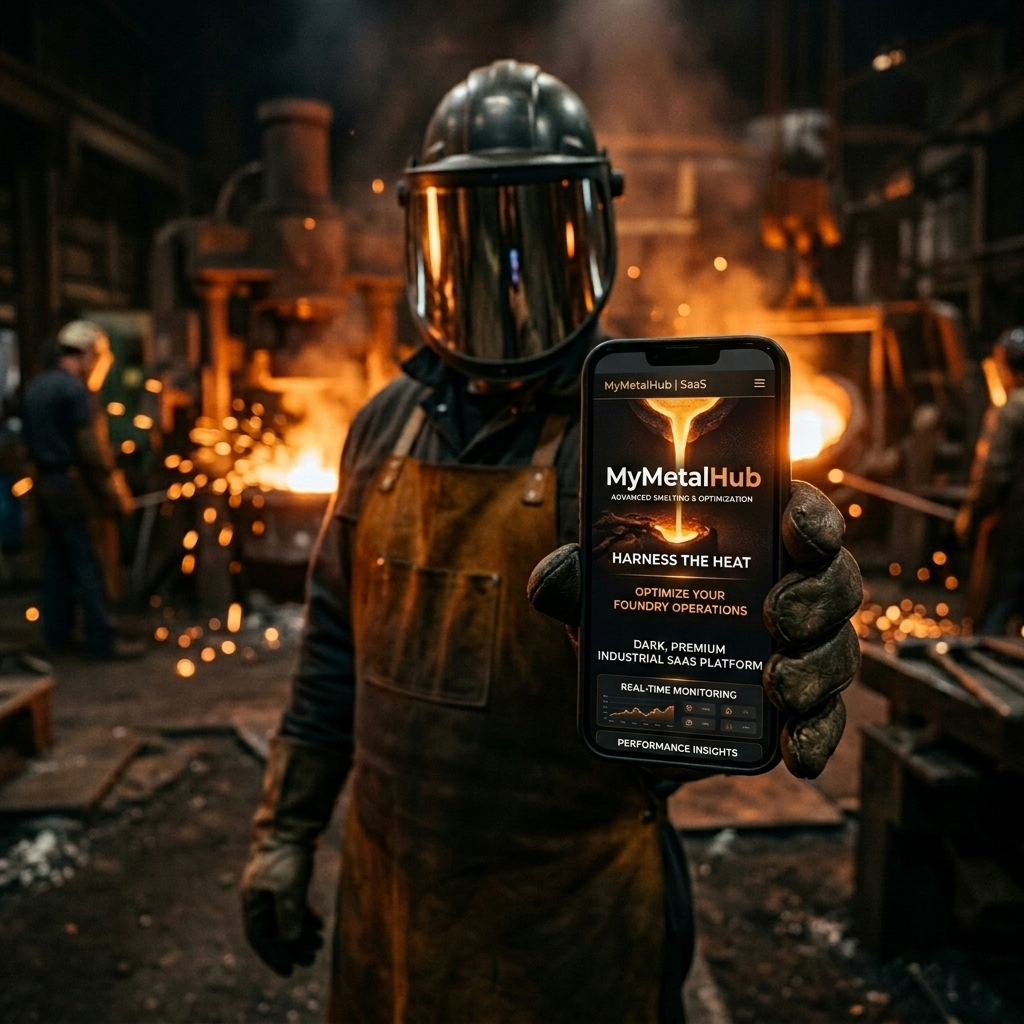
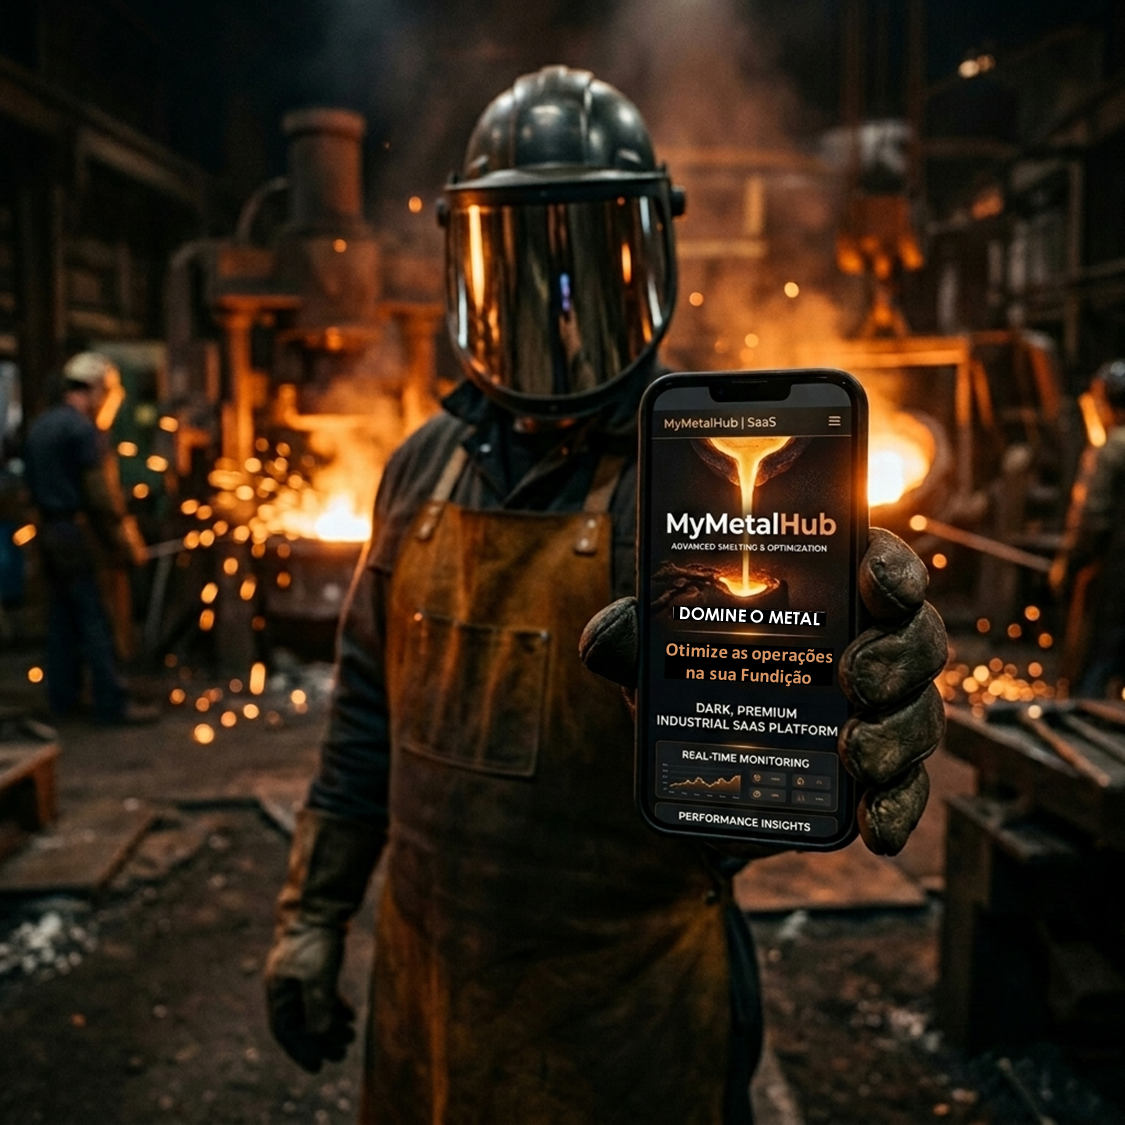
ajuste para cell

Changed region(s): [[0.5938, 0.5312, 0.75, 0.6875], [0.5938, 0.4688, 0.7188, 0.5], [0.625, 0.7188, 0.7188, 0.75]]

diff --git a/index.html b/index.html
@@ -51,20 +51,16 @@
                     <span class="w-1.5 h-1.5 rounded-full bg-orange-500"></span>
                     Home
                 </a>
-                <a class="px-5 py-1.5 text-sm text-neutral-400 hover:text-white transition-colors shrink-0" href="https://ifrs.edu.br/caxias/" target="_blank">Formações</a>
                 <a class="px-5 py-1.5 text-sm text-neutral-400 hover:text-white transition-colors shrink-0" href="sobre-nos.html">Sobre nós</a>
                 <a class="px-5 py-1.5 text-sm text-neutral-400 hover:text-white transition-colors shrink-0" href="#">Hub de discussões</a>
                 <a class="px-5 py-1.5 text-sm text-neutral-400 hover:text-white transition-colors flex items-center gap-1 shrink-0" href="para_empresas.html">
                     Soluções para Empresas
-                    <svg class="w-3 h-3" fill="none" stroke="currentColor" stroke-linecap="round" stroke-linejoin="round" stroke-width="2" viewBox="0 0 24 24" xmlns="http://www.w3.org/2000/svg">
-                        <path d="m6 9 6 6 6-6"></path>
-                    </svg>
                 </a>
             </nav>
 
             <!-- CTA Right -->
             <div class="flex items-center gap-4 gsap-nav-item shrink-0 order-2 md:order-none">
-                <a class="hidden md:inline-flex hover:brightness-110 transition-all text-sm text-white bg-gradient-to-b from-orange-400 to-orange-600 border-white/20 rounded-full border-t px-6 py-2.5 shadow-[0_0_15px_-3px_rgba(249,115,22,0.4)]"
+                <a class="inline-flex hover:brightness-110 transition-all text-sm text-white bg-gradient-to-b from-orange-400 to-orange-600 border-white/20 rounded-full border-t px-6 py-2.5 shadow-[0_0_15px_-3px_rgba(249,115,22,0.4)]"
                     href="index.html#planos">
                     Desbloquear o Hub
                 </a>
@@ -78,7 +74,7 @@
             <div class="grid grid-cols-1 lg:grid-cols-12 gap-12 lg:gap-8 items-center">
 
                 <!-- Left Content -->
-                <div class="lg:col-span-6 flex flex-col relative z-20">
+                <div class="lg:col-span-6 flex flex-col relative z-20 order-1">
                     <div
                         class="inline-flex items-center gap-2 px-3 py-1.5 rounded-lg border border-orange-500/20 bg-orange-500/10 backdrop-blur-sm text-xs text-orange-400 mb-8 w-max gsap-reveal hero-stagger">
                         <svg class="w-4 h-4" fill="none" stroke="currentColor" viewBox="0 0 24 24"
@@ -140,7 +136,7 @@
 
                 <!-- Right Content / Video -->
                 <div
-                    class="lg:col-span-6 relative flex justify-center lg:justify-end items-center h-full min-h-[500px]">
+                    class="lg:col-span-6 relative flex justify-center lg:justify-end items-center h-full min-h-[500px] order-2">
                     <!-- Outer glowing ring -->
                     <div
                         class="absolute w-[120%] h-[120%] top-1/2 left-1/2 -translate-x-1/2 -translate-y-1/2 rounded-full border border-orange-500/10 animate-[spin_60s_linear_infinite] z-0">
@@ -275,7 +271,7 @@
             <div class="grid grid-cols-1 lg:grid-cols-12 gap-16 items-center">
                 
                 <!-- Left Column: Visual (Animation/Image) -->
-                <div class="lg:col-span-5 relative flex justify-center lg:justify-start gsap-reveal order-2 lg:order-1">
+                <div class="lg:col-span-5 relative flex justify-center lg:justify-start gsap-reveal order-2">
                     <!-- Electric Card from Design System used for a warning/pain visual -->
                     <div class="relative w-full max-w-[400px] bg-neutral-900 rounded-[32px] p-[2px] electric-card overflow-hidden shadow-[0_0_50px_rgba(239,68,68,0.15)]">
                         <!-- Glowing Border Gradient -->
@@ -354,7 +350,7 @@
                 </div>
 
                 <!-- Right Column: Text & Agitation -->
-                <div class="lg:col-span-7 flex flex-col items-start relative z-10 lg:pl-8 order-1 lg:order-2">
+                <div class="lg:col-span-7 flex flex-col items-start relative z-10 lg:pl-8 order-1">
                     <!-- Tag -->
                     <div class="mb-8 inline-flex items-center gap-2 px-3 py-1.5 rounded-lg border border-red-500/20 bg-red-500/10 backdrop-blur-sm text-xs text-red-400 gsap-reveal">
                         <svg class="w-4 h-4" fill="none" stroke="currentColor" viewBox="0 0 24 24">
@@ -411,7 +407,7 @@
             <div class="grid grid-cols-1 lg:grid-cols-12 gap-12 lg:gap-8 items-center">
                 
                 <!-- Left: Typography -->
-                <div class="lg:col-span-6 flex flex-col items-start relative z-20">
+                <div class="lg:col-span-6 flex flex-col items-start relative z-20 order-1">
                     <div class="inline-flex items-center gap-2 px-3 py-1.5 rounded-lg border border-white/10 bg-white/5 backdrop-blur-sm text-xs text-orange-400 mb-8 gsap-reveal gsap-vr-stagger">
                         <span class="relative flex h-3 w-3">
                             <span class="animate-ping absolute inline-flex h-full w-full rounded-full bg-orange-400 opacity-75"></span>
@@ -453,7 +449,7 @@
                 </div>
 
                 <!-- Right: Circular Mask Image with Tech Rings -->
-                <div class="lg:col-span-6 relative flex justify-center lg:justify-center gsap-vr-image mt-16 lg:mt-0">
+                <div class="lg:col-span-6 relative flex justify-center lg:justify-center gsap-vr-image mt-16 lg:mt-0 order-2">
                     
                     <!-- Floating Container -->
                     <div class="relative animate-[float_6s_ease-in-out_infinite]">
@@ -503,14 +499,14 @@
             <div class="grid grid-cols-1 lg:grid-cols-2 gap-16 items-center">
                 
                 <!-- Right: Typography (now Left on desktop) -->
-                <div class="flex flex-col items-start relative z-10 order-2 lg:order-1">
+                <div class="flex flex-col items-start relative z-10 order-1">
                     <div class="inline-flex items-center gap-2 px-3 py-1.5 rounded-lg border border-white/10 bg-white/5 backdrop-blur-sm text-xs text-red-500 mb-6 shadow-lg shadow-red-500/10 gsap-com-stagger gsap-reveal">
                         <svg class="w-4 h-4" fill="currentColor" viewBox="0 0 24 24"><path d="M16 11c1.66 0 2.99-1.34 2.99-3S17.66 5 16 5c-1.66 0-3 1.34-3 3s1.34 3 3 3zm-8 0c1.66 0 2.99-1.34 2.99-3S9.66 5 8 5C6.34 5 5 6.34 5 8s1.34 3 3 3zm0 2c-2.33 0-7 1.17-7 3.5V19h14v-2.5c0-2.33-4.67-3.5-7-3.5zm8 0c-.29 0-.62.02-.97.05 1.16.84 1.97 1.97 1.97 3.45V19h6v-2.5c0-2.33-4.67-3.5-7-3.5z"/></svg>
                         <span class="font-medium uppercase tracking-wider">A Irmandade da Metalurgia</span>
                     </div>
 
                     <h2 class="text-4xl md:text-5xl lg:text-[60px] leading-[1.1] text-white font-bricolage font-light tracking-tight mb-8 gsap-com-stagger gsap-reveal">
-                        Comunidade
+                        Comunidades
                         <br/>
                         <span class="font-medium text-transparent bg-clip-text bg-gradient-to-r from-red-500 via-orange-500 to-amber-500">MyMetalHub</span>
                     </h2>
@@ -529,16 +525,10 @@
                         <span class="text-sm text-neutral-500 font-medium">Especialistas ativos agora</span>
                     </div>
 
-                    <div class="mt-10 gsap-com-stagger gsap-reveal">
-                        <a href="#" class="inline-flex items-center justify-center gap-3 px-8 py-4 rounded-xl bg-gradient-to-r from-red-600 to-orange-600 hover:from-red-500 hover:to-orange-500 text-white font-medium transition-all shadow-[0_0_30px_rgba(239,68,68,0.3)] hover:shadow-[0_0_40px_rgba(239,68,68,0.5)] transform hover:-translate-y-1">
-                            Acessar a Comunidade
-                            <svg class="w-5 h-5" fill="none" stroke="currentColor" viewBox="0 0 24 24"><path stroke-linecap="round" stroke-linejoin="round" stroke-width="2" d="M17 8l4 4m0 0l-4 4m4-4H3"></path></svg>
-                        </a>
-                    </div>
                 </div>
 
                 <!-- Left: Glassmorphism Community Mockup (now Right on desktop) -->
-                <div class="relative h-[500px] w-full max-w-[500px] mx-auto lg:mx-0 gsap-com-mockup gsap-reveal order-1 lg:order-2">
+                <div class="relative h-[500px] w-full max-w-[500px] mx-auto lg:mx-0 gsap-com-mockup gsap-reveal order-2 lg:order-2">
                     
                     <!-- App Window -->
                     <div class="absolute inset-0 bg-[#0A0A0A]/60 backdrop-blur-2xl border border-white/10 rounded-3xl shadow-[0_20px_50px_rgba(239,68,68,0.15)] flex flex-col overflow-hidden">
@@ -622,7 +612,7 @@
             <div class="relative w-full flex flex-col lg:flex-row items-center justify-start">
                 
                 <!-- Glassmorphism Text Card (Overlaps right) -->
-                <div class="w-full lg:w-[48%] lg:absolute lg:right-0 lg:z-20 bg-[#0A0A0A]/70 backdrop-blur-2xl border border-white/10 rounded-[32px] p-8 md:p-12 shadow-[0_20px_60px_-15px_rgba(0,0,0,0.8)] electric-card gsap-glass-card mt-8 lg:mt-0 order-2 lg:order-2">
+                <div class="w-full lg:w-[48%] lg:absolute lg:right-0 lg:z-20 bg-[#0A0A0A]/70 backdrop-blur-2xl border border-white/10 rounded-[32px] p-8 md:p-12 shadow-[0_20px_60px_-15px_rgba(0,0,0,0.8)] electric-card gsap-glass-card mt-8 lg:mt-0 order-1 lg:order-2">
                     
                     <!-- Quote Icon -->
                     <div class="mb-8">
@@ -655,9 +645,9 @@
                 </div>
 
                 <!-- Left Image (previously right) -->
-                <div class="w-full lg:w-[65%] relative rounded-[32px] overflow-hidden group gsap-image-reveal order-1 lg:order-1">
+                <div class="w-full lg:w-[65%] relative rounded-[32px] overflow-hidden group gsap-image-reveal order-2 lg:order-1">
                     <!-- Badge -->
-                    <div class="absolute top-6 right-6 z-30 bg-black/50 backdrop-blur-md border border-white/10 rounded-full px-4 py-2 flex items-center gap-2">
+                    <div class="absolute top-2 right-2 md:top-6 md:right-6 z-30 bg-black/50 backdrop-blur-md border border-white/10 rounded-full px-4 py-2 flex items-center gap-2">
                         <span class="w-2 h-2 rounded-full bg-green-500 animate-[ping_2s_cubic-bezier(0,0,0.2,1)_infinite]"></span>
                         <span class="text-xs text-white font-sans tracking-wide">Best-Seller</span>
                     </div>
@@ -879,12 +869,12 @@
             <div class="grid grid-cols-1 lg:grid-cols-2 gap-16 lg:gap-8 items-center">
                 
                 <!-- Left/Right: Typography & CTAs -->
-                <div class="flex flex-col items-start order-2 lg:order-2 relative z-10 lg:pl-10">
+                <div class="flex flex-col items-start order-1 lg:order-2 relative z-10 lg:pl-10">
                     <div class="inline-flex items-center gap-2 px-3 py-1.5 rounded-lg border border-white/10 bg-white/5 backdrop-blur-sm text-xs text-orange-400 mb-6 shadow-lg shadow-orange-500/10 gsap-app-stagger gsap-reveal">
                         <svg class="w-4 h-4" fill="none" stroke="currentColor" viewBox="0 0 24 24">
                             <path stroke-linecap="round" stroke-linejoin="round" stroke-width="2" d="M12 18h.01M8 21h8a2 2 0 002-2V5a2 2 0 00-2-2H8a2 2 0 00-2 2v14a2 2 0 002 2z"></path>
                         </svg>
-                        <span class="font-medium uppercase tracking-wider">Acesso Mobile</span>
+                        <span class="font-medium uppercase tracking-wider">Acesso por Aplicativo Exclusivo</span>
                     </div>
 
                     <h2 class="text-5xl md:text-6xl lg:text-[70px] leading-[1] text-white font-bricolage font-light tracking-tight mb-8 gsap-app-stagger gsap-reveal">
@@ -930,7 +920,7 @@
                 </div>
 
                 <!-- Left/Right: Mockup Image -->
-                <div class="relative flex justify-center lg:justify-start items-center h-[500px] lg:h-[600px] order-1 lg:order-1">
+                <div class="relative flex justify-center lg:justify-start items-center h-[500px] lg:h-[600px] order-2 lg:order-1">
                     
                     <!-- Radar/Scan background effect -->
                     <div class="absolute top-1/2 left-1/2 -translate-x-1/2 -translate-y-1/2 w-[300px] h-[300px] rounded-full border border-orange-500/20 z-0"></div>

diff --git a/sobre-nos.html b/sobre-nos.html
@@ -30,9 +30,9 @@
     <header
         class="fixed top-0 w-full z-50 bg-[#050505]/70 backdrop-blur-xl border-b border-white/5 transition-all duration-300"
         id="header">
-        <div class="max-w-7xl mx-auto px-6 py-4 flex items-center justify-between">
+        <div class="max-w-7xl mx-auto px-6 py-4 flex flex-wrap md:flex-nowrap items-center justify-between gap-y-4">
             <!-- Logo -->
-            <a href="index.html" class="flex items-center gap-3 gsap-nav-item">
+            <a href="index.html" class="flex items-center gap-3 gsap-nav-item shrink-0">
                 <div
                     class="relative flex items-center justify-center w-10 h-10 rounded-xl bg-gradient-to-br from-orange-500/20 to-orange-900/20 border border-orange-500/30">
                     <svg class="w-6 h-6 text-orange-500" fill="none" stroke="currentColor" viewBox="0 0 24 24"
@@ -46,22 +46,21 @@
 
             <!-- Center Menu -->
             <nav
-                class="hidden md:flex items-center bg-white/[0.03] border border-white/10 rounded-full px-1 py-1 backdrop-blur-md gsap-nav-item">
-                <a class="px-5 py-2 text-sm text-neutral-400 hover:text-white transition-colors" href="index.html">Home</a>
-                <a class="px-5 py-2 text-sm text-neutral-400 hover:text-white transition-colors" href="https://ifrs.edu.br/caxias/" target="_blank">Formações</a>
-                <a class="px-5 py-2 text-sm text-neutral-400 hover:text-white transition-colors" href="sobre-nos.html">Sobre nós</a>
-                <a class="px-5 py-2 text-sm text-neutral-400 hover:text-white transition-colors" href="#">Hub de discussões</a>
-                <a class="px-5 py-2 text-sm text-neutral-400 hover:text-white transition-colors flex items-center gap-1" href="para_empresas.html">
+                class="flex items-center bg-white/[0.03] border border-white/10 rounded-full px-1 py-1 backdrop-blur-md gsap-nav-item overflow-x-auto no-scrollbar w-full md:w-auto order-3 md:order-none">
+                <a class="px-5 py-1.5 text-sm text-neutral-400 hover:text-white transition-colors shrink-0" href="index.html">Home</a>
+                <a class="px-4 py-1.5 bg-neutral-800/80 rounded-full text-sm text-white flex items-center gap-2 border border-white/5 shadow-inner shrink-0" href="sobre-nos.html">
+                    <span class="w-1.5 h-1.5 rounded-full bg-orange-500"></span>
+                    Sobre nós
+                </a>
+                <a class="px-5 py-1.5 text-sm text-neutral-400 hover:text-white transition-colors shrink-0" href="#">Hub de discussões</a>
+                <a class="px-5 py-1.5 text-sm text-neutral-400 hover:text-white transition-colors flex items-center gap-1 shrink-0" href="para_empresas.html">
                     Soluções para Empresas
-                    <svg class="w-3 h-3" fill="none" stroke="currentColor" stroke-linecap="round" stroke-linejoin="round" stroke-width="2" viewBox="0 0 24 24" xmlns="http://www.w3.org/2000/svg">
-                        <path d="m6 9 6 6 6-6"></path>
-                    </svg>
                 </a>
             </nav>
 
             <!-- CTA Right -->
-            <div class="flex items-center gap-4 gsap-nav-item">
-                <a class="hidden md:inline-flex hover:brightness-110 transition-all text-sm text-white bg-gradient-to-b from-orange-400 to-orange-600 border-white/20 rounded-full border-t px-6 py-2.5 shadow-[0_0_15px_-3px_rgba(249,115,22,0.4)]"
+            <div class="flex items-center gap-4 gsap-nav-item shrink-0 order-2 md:order-none">
+                <a class="inline-flex hover:brightness-110 transition-all text-sm text-white bg-gradient-to-b from-orange-400 to-orange-600 border-white/20 rounded-full border-t px-6 py-2.5 shadow-[0_0_15px_-3px_rgba(249,115,22,0.4)]"
                     href="index.html#planos">
                     Desbloquear o Hub
                 </a>

diff --git a/para_empresas.html b/para_empresas.html
@@ -29,9 +29,9 @@
     <header
         class="fixed top-0 w-full z-50 bg-[#050505]/70 backdrop-blur-xl border-b border-white/5 transition-all duration-300"
         id="header">
-        <div class="max-w-7xl mx-auto px-6 py-4 flex items-center justify-between">
+        <div class="max-w-7xl mx-auto px-6 py-4 flex flex-wrap md:flex-nowrap items-center justify-between gap-y-4">
             <!-- Logo -->
-            <a href="index.html" class="flex items-center gap-3 gsap-nav-item">
+            <a href="index.html" class="flex items-center gap-3 gsap-nav-item shrink-0">
                 <div
                     class="relative flex items-center justify-center w-10 h-10 rounded-xl bg-gradient-to-br from-orange-500/20 to-orange-900/20 border border-orange-500/30">
                     <svg class="w-6 h-6 text-orange-500" fill="none" stroke="currentColor" viewBox="0 0 24 24"
@@ -45,22 +45,19 @@
 
             <!-- Center Menu -->
             <nav
-                class="hidden md:flex items-center bg-white/[0.03] border border-white/10 rounded-full px-1 py-1 backdrop-blur-md gsap-nav-item">
-                <a class="px-5 py-2 text-sm text-neutral-400 hover:text-white transition-colors" href="index.html">Home</a>
-                <a class="px-5 py-2 text-sm text-neutral-400 hover:text-white transition-colors" href="https://ifrs.edu.br/caxias/" target="_blank">Formações</a>
-                <a class="px-5 py-2 text-sm text-neutral-400 hover:text-white transition-colors" href="sobre-nos.html">Sobre nós</a>
-                <a class="px-5 py-2 text-sm text-neutral-400 hover:text-white transition-colors" href="#">Hub de discussões</a>
-                <a class="px-5 py-2 text-sm text-neutral-400 hover:text-white transition-colors flex items-center gap-1" href="para_empresas.html">
+                class="flex items-center bg-white/[0.03] border border-white/10 rounded-full px-1 py-1 backdrop-blur-md gsap-nav-item overflow-x-auto no-scrollbar w-full md:w-auto order-3 md:order-none">
+                <a class="px-5 py-1.5 text-sm text-neutral-400 hover:text-white transition-colors shrink-0" href="index.html">Home</a>
+                <a class="px-5 py-1.5 text-sm text-neutral-400 hover:text-white transition-colors shrink-0" href="sobre-nos.html">Sobre nós</a>
+                <a class="px-5 py-1.5 text-sm text-neutral-400 hover:text-white transition-colors shrink-0" href="#">Hub de discussões</a>
+                <a class="px-4 py-1.5 bg-neutral-800/80 rounded-full text-sm text-white flex items-center gap-2 border border-white/5 shadow-inner shrink-0" href="para_empresas.html">
+                    <span class="w-1.5 h-1.5 rounded-full bg-orange-500"></span>
                     Soluções para Empresas
-                    <svg class="w-3 h-3" fill="none" stroke="currentColor" stroke-linecap="round" stroke-linejoin="round" stroke-width="2" viewBox="0 0 24 24" xmlns="http://www.w3.org/2000/svg">
-                        <path d="m6 9 6 6 6-6"></path>
-                    </svg>
                 </a>
             </nav>
 
             <!-- CTA Right -->
-            <div class="flex items-center gap-4 gsap-nav-item">
-                <a class="hidden md:inline-flex hover:brightness-110 transition-all text-sm text-white bg-gradient-to-b from-orange-400 to-orange-600 border-white/20 rounded-full border-t px-6 py-2.5 shadow-[0_0_15px_-3px_rgba(249,115,22,0.4)]"
+            <div class="flex items-center gap-4 gsap-nav-item shrink-0 order-2 md:order-none">
+                <a class="inline-flex hover:brightness-110 transition-all text-sm text-white bg-gradient-to-b from-orange-400 to-orange-600 border-white/20 rounded-full border-t px-6 py-2.5 shadow-[0_0_15px_-3px_rgba(249,115,22,0.4)]"
                     href="index.html#planos">
                     Desbloquear o Hub
                 </a>

diff --git a/assets/js/main.js b/assets/js/main.js
@@ -32,7 +32,21 @@
                 // Ensure video is properly muted to allow autoplay
                 heroVideo.muted = true;
                 heroVideo.play().catch(e => console.log('Autoplay prevented:', e));
+
+                // Mobile fallback: force play on first interaction if blocked
+                document.body.addEventListener('touchstart', function() {
+                    if (heroVideo.paused) {
+                        heroVideo.play().catch(e => {});
+                    }
+                }, { once: true });
             }
+
+            // Handle Back/Forward Cache (bfcache) to restart animations on return
+            window.addEventListener('pageshow', function (event) {
+                if (event.persisted) {
+                    window.location.reload();
+                }
+            });
 
             const tl = gsap.timeline({ defaults: { ease: 'power3.out' } });
 